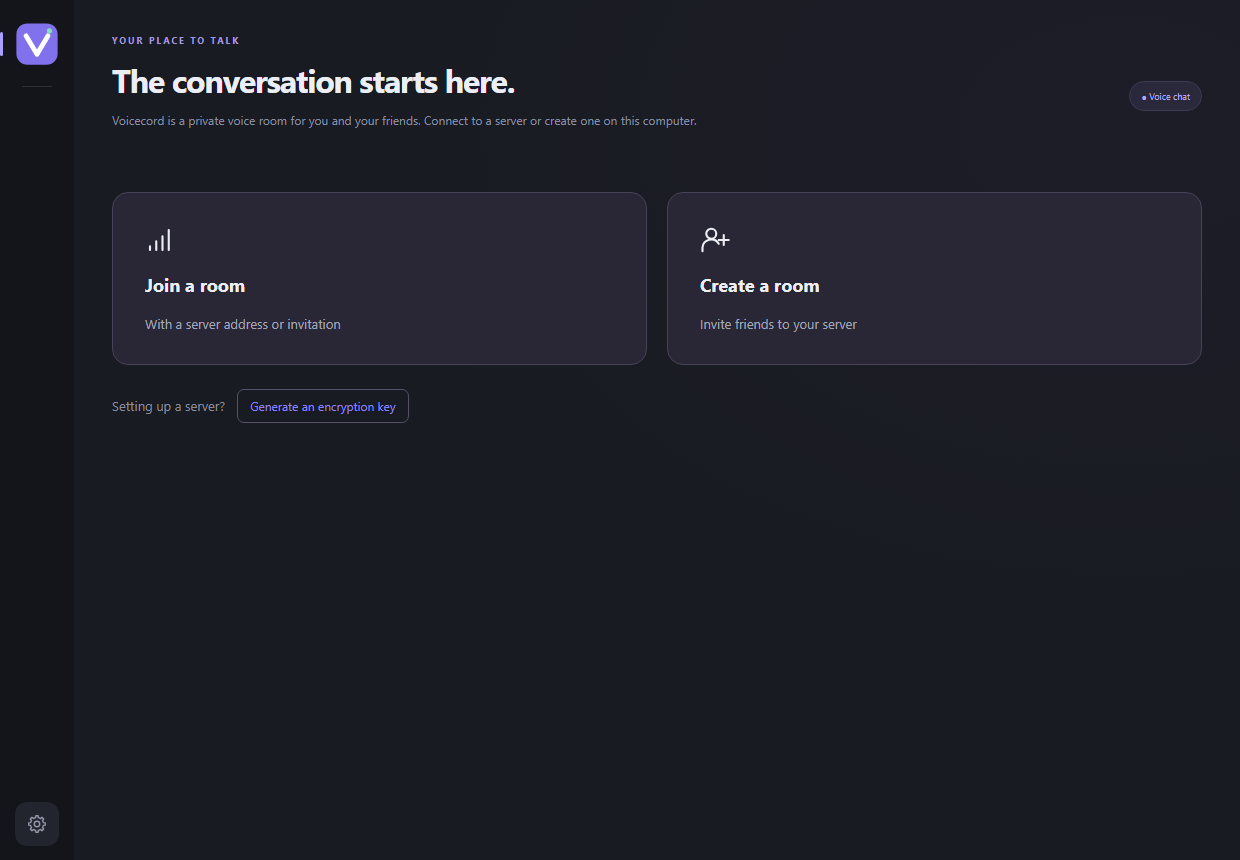
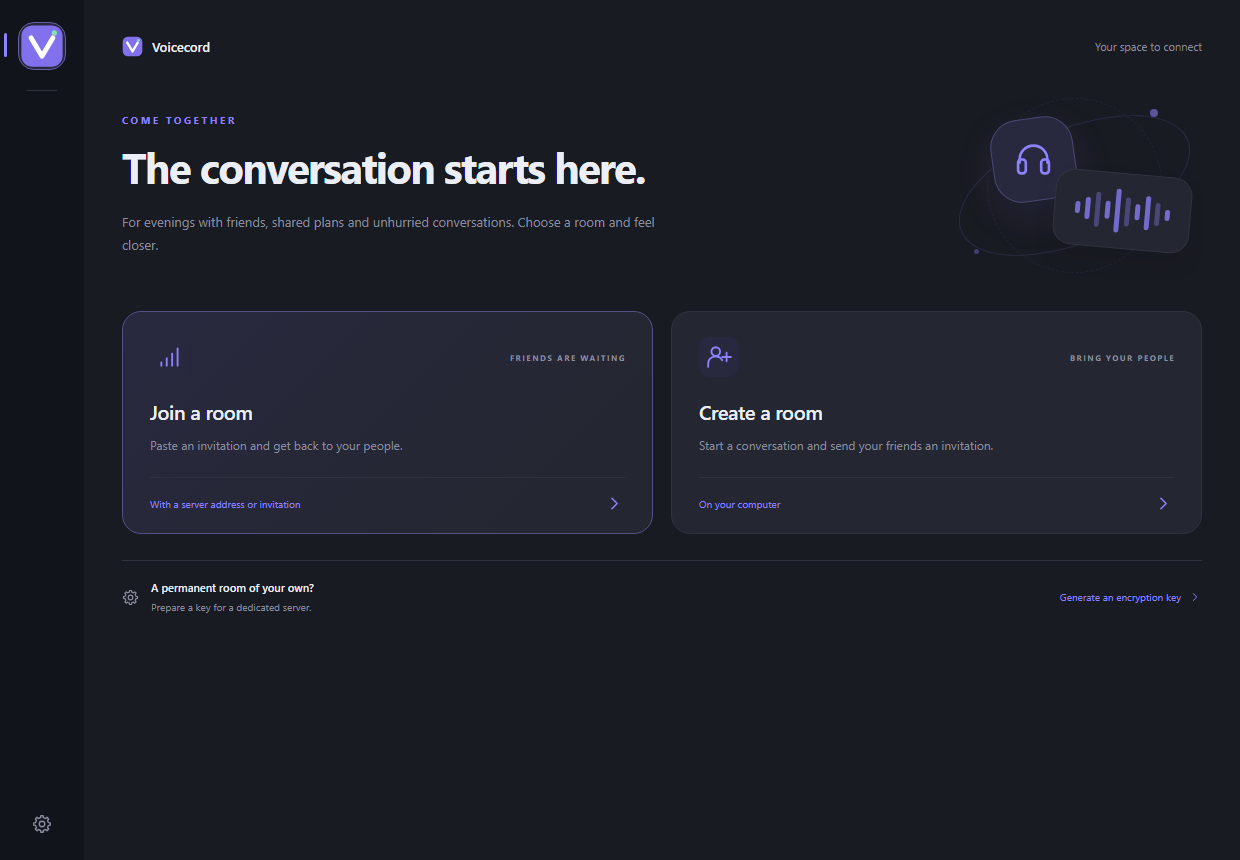
Release 0.5.0: refresh landing, screenshots and release documentation

diff --git a/website/ru/index.html b/website/ru/index.html
@@ -12,7 +12,7 @@
   <link rel="alternate" hreflang="x-default" href="https://ilyarusskikh.github.io/voicecord/">
   <meta property="og:type" content="website">
   <meta property="og:title" content="Voicecord — ваша голосовая комната">
-  <meta property="og:description" content="Голосовой чат для Windows с открытым кодом. Без аккаунтов. На вашем ПК или Linux VPS. Предварительная версия 0.4.1.">
+  <meta property="og:description" content="Голосовой чат для Windows с открытым кодом. Без аккаунтов. На вашем ПК или Linux VPS. Предварительная версия 0.5.0.">
   <meta property="og:url" content="https://ilyarusskikh.github.io/voicecord/ru/">
   <meta property="og:image" content="https://ilyarusskikh.github.io/voicecord/assets/room-chat.png">
   <meta property="og:image:alt" content="Комната Voicecord с тремя участниками, кнопками звонка и зашифрованным текстовым чатом">
@@ -32,21 +32,21 @@
     <div class="eyebrow">Открытый код · Свой сервер · Windows</div>
     <h1>Ваши друзья.<br>Ваш сервер.<br><span>Ваша комната.</span></h1>
     <p class="lead">Голос и текстовый чат для совместных игр и небольших сообществ. Создайте комнату на своём ПК или оставьте её работать на Linux VPS. Для входа — приглашение и никнейм. Без аккаунтов.</p>
-    <div class="actions"><a class="button" href="https://github.com/IlyaRusskikh/voicecord/releases/download/v0.4.1/Voicecord.Setup.0.4.1.exe">Скачать для Windows x64 ↓</a><a class="button secondary" href="https://github.com/IlyaRusskikh/voicecord/blob/main/docs/SERVER.md">Установить Linux-сервер ↗</a></div>
-    <p class="fine">0.4.1 — предварительная версия · Windows 10/11 x64 · Интерфейс Русский / English</p>
-    <p class="fine">Установщик без цифровой подписи · Проверяемое автообновление · <a href="https://github.com/IlyaRusskikh/voicecord/releases/tag/v0.4.1">Описание выпуска, SHA-256 и исходники</a></p>
+    <div class="actions"><a class="button" href="https://github.com/IlyaRusskikh/voicecord/releases/download/v0.5.0/Voicecord.Setup.0.5.0.exe">Скачать для Windows x64 ↓</a><a class="button secondary" href="https://github.com/IlyaRusskikh/voicecord/blob/main/docs/SERVER.md">Установить Linux-сервер ↗</a></div>
+    <p class="fine">0.5.0 — предварительная версия · Windows 10/11 x64 · Интерфейс Русский / English</p>
+    <p class="fine">Установщик без цифровой подписи · Проверяемое автообновление · <a href="https://github.com/IlyaRusskikh/voicecord/releases/tag/v0.5.0">Описание выпуска, SHA-256 и исходники</a></p>
   </section>
-  <figure class="hero-shot"><a href="../assets/room-chat.png"><img src="../assets/room-chat.png" width="1240" height="860" fetchpriority="high" alt="Комната Voicecord с тремя участниками, кнопками звонка и зашифрованным текстовым чатом"></a><figcaption>Voicecord 0.4.0 с тестовыми участниками и перепиской.</figcaption></figure>
+  <figure class="hero-shot"><a href="../assets/room-chat.png"><img src="../assets/room-chat.png" width="1240" height="860" fetchpriority="high" alt="Комната Voicecord с тремя участниками, кнопками звонка и зашифрованным текстовым чатом"></a><figcaption>Voicecord 0.5.0 с тестовыми участниками и перепиской.</figcaption></figure>
   <section class="section" aria-labelledby="features"><h2 id="features">Небольшая комната. Нужные настройки.</h2>
     <div class="features"><article><h3>Размещайте у себя</h3><p>Временная комната на Windows-ПК или постоянный Docker-сервер на Linux amd64/arm64. Гостям достаточно установить клиент.</p></article><article><h3>Убирайте лишний шум</h3><p>Локальное шумоподавление RNNoise, эхоподавление и автоусиление. Выбирайте устройства, чувствительность и громкость.</p></article><article><h3>Говорите как удобно</h3><p>Активация голосом или push-to-talk, глобальные сочетания, mute/deafen и громкость каждого участника. Приложение работает в трее.</p></article></div>
   </section>
-  <section class="section split"><div><div class="eyebrow">В комнате</div><h2>Говорите и пишите в одной комнате.</h2><p>Высоту голосовой панели и чата можно менять. В чате видно, кто печатает, а кнопка перехода открывает непрочитанное. Встроенная комната с E2EE хранит историю до остановки хоста. На VPS с E2EE и настроенной историей переписка хранится в зашифрованном виде до семи дней.</p><p>Выберите аватар и оцените круглый кадр перед сохранением.</p></div><figure><a href="../assets/avatar-crop.png"><img src="../assets/avatar-crop.png" width="1240" height="860" loading="lazy" alt="Круглый предпросмотр с масштабированием и сдвигом изображения."></a><figcaption>Круглый предпросмотр с масштабированием и сдвигом изображения.</figcaption></figure></section>
+  <section class="section split"><div><div class="eyebrow">В комнате</div><h2>Говорите и пишите в одной комнате.</h2><p>Меняйте высоту голосовой панели и чата. Отправляйте картинки до 2 МиБ, отвечайте на сообщения и копируйте текст. История подгружается при прокрутке; размер окна задаётся в настройках. На VPS объём хранения задаётся через VOICECORD_CHAT_MAX_MB: 128 МиБ по умолчанию, 0 — без лимита. Ограничения в семь дней нет.</p><p>Выберите аватар и оцените круглый кадр перед сохранением.</p></div><figure><a href="../assets/avatar-crop.png"><img src="../assets/avatar-crop.png" width="1240" height="860" loading="lazy" alt="Круглый предпросмотр с масштабированием и сдвигом изображения."></a><figcaption>Круглый предпросмотр с масштабированием и сдвигом изображения.</figcaption></figure></section>
   <section class="section" id="start"><h2>От скачивания до первого разговора.</h2>
     <ol class="steps"><li><strong>Установите и проверьте звук</strong><p>Установите клиент на каждый Windows-ПК и выберите Русский или English. В настройках задайте никнейм, выберите устройства и проверьте микрофон. Инструменты разработчика не нужны.</p></li><li><strong>Создайте комнату</strong><p>Нажмите «Создать комнату», введите название и пароль от 8 символов. Комната доступна, пока приложение хоста запущено.</p></li><li><strong>Пригласите друга</strong><p>Передайте полное приглашение лично. Друг вставляет его в «Присоединиться к комнате». В одной локальной сети используйте LAN-приглашение.</p></li></ol>
     <p>Для связи через интернет нужны доступные порты хоста. Автопроброс может не сработать при CGNAT. Альтернатива — Linux VPS с публичным IP. <a href="https://github.com/IlyaRusskikh/voicecord/blob/main/README.ru.md">Полная инструкция →</a></p>
   </section>
   <section class="section split"><div><div class="eyebrow">Перед разговором</div><h2>Сначала услышьте себя.<br>Потом — друзей.</h2><p>Выберите микрофон и динамики, попробуйте шумоподавление и прослушайте микрофон перед подключением.</p><p>Порты хоста по умолчанию: TCP <strong>18443</strong>, TCP <strong>18444</strong>, UDP <strong>18445</strong>. В руководстве сервера описаны проверки firewall и доступности.</p></div><figure><a href="../assets/audio-settings.png"><img src="../assets/audio-settings.png" width="1240" height="860" loading="lazy" alt="Настройки Voicecord: микрофон, динамик, проверка микрофона и шумоподавление"></a><figcaption>Настоящие настройки звука; при съёмке использован синтетический микрофон.</figcaption></figure></section>
-  <section class="section split"><div><div class="eyebrow">Язык и обновления</div><h2>Ваш язык.<br>Проверяемые обновления.</h2><p>Выберите Русский или English в установщике или настройках. Подсказки соединения и сообщения используют выбранный язык.</p><p>При запуске приложение проверяет новые релизы GitHub, включая предварительные. Обновление можно отложить и открыть снова по иконке. Файл проверяется перед установкой, а отдельное окно показывает её ход.</p><p>Уже используете 0.1.0? Один раз установите 0.2.0 вручную, чтобы получать следующие обновления из приложения.</p></div><figure><a href="../assets/language-settings.png"><img src="../assets/language-settings.png" width="1240" height="860" loading="lazy" alt="Настройки Voicecord: выбор языка приложения и никнейм"></a><figcaption>Язык и профиль в Voicecord 0.4.0.</figcaption></figure></section>
+  <section class="section split"><div><div class="eyebrow">Оформление и обновления</div><h2>Ваш язык.<br>Проверяемые обновления.</h2><p>Выберите Русский или English в разделе «Приложение». В настройках с боковой навигацией доступны светлая тема, цветовая палитра и скругления. Подсказки соединения и сообщения используют выбранный язык.</p><p>Автопроверку обновлений можно отключить или запустить вручную; текущая версия показана рядом. Обновление можно отложить и открыть снова по иконке. Файл проверяется перед установкой, а отдельное окно показывает её ход.</p><p>Уже используете 0.1.0? Один раз установите 0.2.0 вручную, чтобы получать следующие обновления из приложения.</p></div><figure><a href="../assets/language-settings.png"><img src="../assets/language-settings.png" width="1240" height="860" loading="lazy" alt="Настройки Voicecord: выбор языка приложения и никнейм"></a><figcaption>Настройки приложения в Voicecord 0.5.0.</figcaption></figure></section>
   <section class="section"><h2>Что учитывать в предварительной версии.</h2><div class="limits"><p><strong>Это ранний выпуск.</strong> Реальные микрофоны, чистая установка Windows, игры/PTT, разные внешние сети и полная нагрузка ещё требуют аппаратной приёмки.</p><p>Клиент работает только на Windows. Linux — серверная платформа. Видео, демонстрация экрана, веб- и мобильные клиенты пока недоступны.</p><p>E2EE включается по желанию и остаётся экспериментальным. Одно шифрование транспорта не исключает доступ медиасервера к звуку. Приглашение может содержать пароль и ключ E2EE — передавайте его лично. <a href="https://github.com/IlyaRusskikh/voicecord/blob/main/docs/E2EE.md">Модель защиты</a>.</p></div></section>
   <section class="section" id="faq"><h2>Ответы перед первым запуском.</h2>
     <details><summary>Это альтернатива Discord или TeamSpeak?</summary><p>Для небольших голосовых комнат на своём сервере — это целевой сценарий. Voicecord сосредоточен на разговорах без регистрации и не заменяет все возможности этих платформ для сообществ.</p></details>

diff --git a/website/index.html b/website/index.html
@@ -12,7 +12,7 @@
   <link rel="alternate" hreflang="x-default" href="https://ilyarusskikh.github.io/voicecord/">
   <meta property="og:type" content="website">
   <meta property="og:title" content="Voicecord — a voice room of your own">
-  <meta property="og:description" content="Open-source voice chat for Windows. No accounts. Host on your PC or a Linux VPS. Public preview 0.4.1.">
+  <meta property="og:description" content="Open-source voice chat for Windows. No accounts. Host on your PC or a Linux VPS. Public preview 0.5.0.">
   <meta property="og:url" content="https://ilyarusskikh.github.io/voicecord/">
   <meta property="og:image" content="https://ilyarusskikh.github.io/voicecord/assets/room-chat-en.png">
   <meta property="og:image:alt" content="Voicecord room with three participants, call controls and encrypted text chat">
@@ -32,21 +32,21 @@
     <div class="eyebrow">Open source · Self-hosted · Windows</div>
     <h1>Your friends.<br>Your server.<br><span>Your voice room.</span></h1>
     <p class="lead">Voice and text chat for a game night or a small community. Create a room on your PC or keep it running on a Linux VPS. Join with an invitation and a nickname. No accounts.</p>
-    <div class="actions"><a class="button" href="https://github.com/IlyaRusskikh/voicecord/releases/download/v0.4.1/Voicecord.Setup.0.4.1.exe">Download for Windows x64 ↓</a><a class="button secondary" href="https://github.com/IlyaRusskikh/voicecord/blob/main/docs/SERVER.md">Host a Linux server ↗</a></div>
-    <p class="fine">0.4.1 public preview · Windows 10/11 x64 · English / Русский interface</p>
-    <p class="fine">Unsigned installer · Verified automatic updates · <a href="https://github.com/IlyaRusskikh/voicecord/releases/tag/v0.4.1">Release notes, checksums and source</a></p>
+    <div class="actions"><a class="button" href="https://github.com/IlyaRusskikh/voicecord/releases/download/v0.5.0/Voicecord.Setup.0.5.0.exe">Download for Windows x64 ↓</a><a class="button secondary" href="https://github.com/IlyaRusskikh/voicecord/blob/main/docs/SERVER.md">Host a Linux server ↗</a></div>
+    <p class="fine">0.5.0 public preview · Windows 10/11 x64 · English / Русский interface</p>
+    <p class="fine">Unsigned installer · Verified automatic updates · <a href="https://github.com/IlyaRusskikh/voicecord/releases/tag/v0.5.0">Release notes, checksums and source</a></p>
   </section>
-  <figure class="hero-shot"><a href="assets/room-chat-en.png"><img src="assets/room-chat-en.png" width="1240" height="860" fetchpriority="high" alt="Voicecord room with three participants, call controls and encrypted text chat"></a><figcaption>Voicecord 0.4.0 with demo participants and messages.</figcaption></figure>
+  <figure class="hero-shot"><a href="assets/room-chat-en.png"><img src="assets/room-chat-en.png" width="1240" height="860" fetchpriority="high" alt="Voicecord room with three participants, call controls and encrypted text chat"></a><figcaption>Voicecord 0.5.0 with demo participants and messages.</figcaption></figure>
   <section class="section" aria-labelledby="features"><h2 id="features">A small room. The controls you need.</h2>
     <div class="features"><article><h3>Host it yourself</h3><p>Temporary rooms on a Windows PC, or a persistent Docker server on Linux amd64/arm64. Your guests just install the client.</p></article><article><h3>Keep the noise down</h3><p>Local RNNoise noise suppression, echo cancellation and automatic gain control. Adjust devices, sensitivity and volume.</p></article><article><h3>Speak your way</h3><p>Voice activation or push-to-talk, global shortcuts, mute/deafen and per-person volume. Keep the app in the tray.</p></article></div>
   </section>
-  <section class="section split"><div><div class="eyebrow">In the room</div><h2>Keep talking. Share a message.</h2><p>The room has resizable voice and text panels, with typing indicators and a jump to unread messages. Built-in rooms with E2EE keep history until the host stops. VPS rooms configured for E2EE and chat history can retain encrypted messages for up to seven days.</p><p>Choose a profile picture and preview the circular crop before saving.</p></div><figure><a href="assets/avatar-crop-en.png"><img src="assets/avatar-crop-en.png" width="1240" height="860" loading="lazy" alt="Circular avatar preview with zoom and repositioning."></a><figcaption>Circular avatar preview with zoom and repositioning.</figcaption></figure></section>
+  <section class="section split"><div><div class="eyebrow">In the room</div><h2>Keep talking. Share a message.</h2><p>Resize the voice and chat panels. Share images up to 2 MiB, reply to messages and copy text. History loads as you scroll, with a configurable client window. VPS storage uses VOICECORD_CHAT_MAX_MB: 128 MiB by default, 0 for unlimited. There is no seven-day expiry.</p><p>Choose a profile picture and preview the circular crop before saving.</p></div><figure><a href="assets/avatar-crop-en.png"><img src="assets/avatar-crop-en.png" width="1240" height="860" loading="lazy" alt="Circular avatar preview with zoom and repositioning."></a><figcaption>Circular avatar preview with zoom and repositioning.</figcaption></figure></section>
   <section class="section" id="start"><h2>From download to first conversation.</h2>
     <ol class="steps"><li><strong>Install &amp; check your mic</strong><p>Install the Windows client on each PC and choose English or Russian. In Settings, choose a nickname, select audio devices and test your microphone. No developer tools are needed.</p></li><li><strong>Create a room</strong><p>Choose Create room (Создать комнату), enter a name and a password of at least 8 characters. The room stays up while the host app runs.</p></li><li><strong>Invite a friend</strong><p>Share the full invitation privately. Your friend pastes it into Join room (Присоединиться к комнате). On the same network, use the LAN invitation.</p></li></ol>
     <p>Across the internet, the host needs reachable ports. Automatic port mapping may not work behind CGNAT. A Linux VPS with a public IP is an alternative. <a href="https://github.com/IlyaRusskikh/voicecord/blob/main/README.md">Read the full setup guide →</a></p>
   </section>
   <section class="section split"><div><div class="eyebrow">Before the call</div><h2>Hear yourself.<br>Then join your friends.</h2><p>Choose your microphone and speakers, try noise suppression and listen to a microphone test before connecting.</p><p>Default hosting ports: TCP <strong>18443</strong>, TCP <strong>18444</strong>, UDP <strong>18445</strong>. The server setup guide covers firewall and connectivity checks.</p></div><figure><a href="assets/audio-settings-en.png"><img src="assets/audio-settings-en.png" width="1240" height="860" loading="lazy" alt="Voicecord settings showing microphone, speaker, monitoring and noise suppression controls"></a><figcaption>Real audio settings; capture uses a synthetic microphone.</figcaption></figure></section>
-  <section class="section split"><div><div class="eyebrow">Language and updates</div><h2>Your language.<br>Verified updates.</h2><p>Choose English or Russian in the installer or Settings. Connection tooltips and status messages follow your choice.</p><p>The app checks GitHub releases at startup, including previews. Update now or defer it; an icon lets you reopen the offer. Downloads are verified before installation, and a separate window shows installation progress.</p><p>Already on 0.1.0? Install 0.2.0 once manually to enable future update offers.</p></div><figure><a href="assets/language-settings-en.png"><img src="assets/language-settings-en.png" width="1240" height="860" loading="lazy" alt="Voicecord English settings with a persistent application language selector"></a><figcaption>Language and profile settings in Voicecord 0.4.0.</figcaption></figure></section>
+  <section class="section split"><div><div class="eyebrow">Language and updates</div><h2>Your language.<br>Verified updates.</h2><p>Choose English or Russian under Application. Settings now have sidebar navigation, a light preset, editable colors and corner sizes. Connection tooltips and status messages follow your choice.</p><p>Turn automatic update checks on or off, check manually and see the current version in Settings. Update now or defer it; an icon lets you reopen the offer. Downloads are verified before installation, and a separate window shows installation progress.</p><p>Already on 0.1.0? Install 0.2.0 once manually to enable future update offers.</p></div><figure><a href="assets/language-settings-en.png"><img src="assets/language-settings-en.png" width="1240" height="860" loading="lazy" alt="Voicecord English settings with a persistent application language selector"></a><figcaption>Application settings in Voicecord 0.5.0.</figcaption></figure></section>
   <section class="section"><h2>Try the preview with clear expectations.</h2><div class="limits"><p><strong>This is an early release.</strong> Real microphones, clean Windows installations, games/PTT, separate internet networks and full load still need hardware acceptance testing.</p><p>Windows desktop client only. Linux is a server platform. Video, screen sharing and web or mobile clients are unavailable.</p><p>E2EE is optional and experimental. Transport encryption alone does not prevent the media server from accessing audio. Invitations can contain the password and E2EE key: keep them private. <a href="https://github.com/IlyaRusskikh/voicecord/blob/main/docs/E2EE.md">Read the security model</a>.</p></div></section>
   <section class="section" id="faq"><h2>A few things to know.</h2>
     <details><summary>Is this an alternative to Discord or TeamSpeak?</summary><p>For small, self-hosted voice rooms, that is the use case. Voicecord focuses on account-free conversations. It does not replace their broader community features.</p></details>

diff --git a/README.md b/README.md
@@ -4,7 +4,7 @@
 
 Voicecord is an **alternative to Discord and TeamSpeak for voice chat** on Windows. Get friends together before a match, talk to your team while you play, or give your community a room it can come back to. Join with an invitation and a nickname. No account required.
 
-**[Download Voicecord 0.4.1 for Windows 10/11 (x64)](https://github.com/IlyaRusskikh/voicecord/releases/download/v0.4.1/Voicecord.Setup.0.4.1.exe)** · [Get started](#get-started) · [Self-hosting guide (Russian)](docs/SERVER.md)
+**[Download Voicecord 0.5.0 for Windows 10/11 (x64)](https://github.com/IlyaRusskikh/voicecord/releases/download/v0.5.0/Voicecord.Setup.0.5.0.exe)** · [Get started](#get-started) · [Self-hosting guide (Russian)](docs/SERVER.md)
 
 ![Voicecord room with three participants, call controls and encrypted text chat](website/assets/room-chat-en.png)
 
@@ -24,7 +24,7 @@ Voicecord takes inspiration from **Discord** for easy-to-join voice rooms and in
 - **Set a profile picture.** Under **Settings → About me**, choose a PNG, JPEG, or WebP. Zoom and position the image in the circular preview. Participants see your current nickname and avatar in the room and in retained chat history.
 - **Make speech easier to hear.** RNNoise reduces background noise on your PC, echo cancellation reduces echo, and automatic gain control evens out the level of your voice.
 - **Return to your favorite rooms.** Bookmark a server so you can find it again quickly.
-- **Send messages during a call.** The room opens with chat below the participant cards. Press Enter to send or Shift+Enter for a new line. You can send up to three messages per second and see when someone else is typing. Drag the divider to resize either section. Built-in E2EE rooms keep history in memory until the server stops. Published 0.4.1 servers keep encrypted history for up to seven days; the local next version uses a configurable storage budget (see Project status).
+- **Send messages during a call.** The room opens with chat below the participant cards. Press Enter to send or Shift+Enter for a new line. You can send up to three messages per second and see when someone else is typing. Drag the divider to resize either section. Built-in E2EE rooms keep history in memory until the server stops. VPS history uses a configurable storage budget with no age limit (see Project status).
 
 <details>
 <summary>See audio settings and room creation</summary>
@@ -37,7 +37,7 @@ Voicecord takes inspiration from **Discord** for easy-to-join voice rooms and in
 
 ## Get started
 
-1. **Install Voicecord.** [Download the installer](https://github.com/IlyaRusskikh/voicecord/releases/download/v0.4.1/Voicecord.Setup.0.4.1.exe) on each Windows PC. Choose English or Russian.
+1. **Install Voicecord.** [Download the installer](https://github.com/IlyaRusskikh/voicecord/releases/download/v0.5.0/Voicecord.Setup.0.5.0.exe) on each Windows PC. Choose English or Russian.
 2. **Pick a nickname.** Open **Settings → About me** and enter a nickname. You can test your microphone under **Voice**.
 3. **Get your friends together.** Select **Create a room**, give the room a name, and choose a password of at least 8 characters. Share the full invitation privately. Your friend opens **Join a room** and pastes the link.
 
@@ -100,13 +100,13 @@ Voicecord is licensed under [GNU AGPL-3.0-only](LICENSE). Third-party components
 
 ## Project status
 
-Local work after 0.4.1 is under review: a redesigned home screen, settings navigation,
+Version 0.5.0 includes: a redesigned home screen, settings navigation,
 a detailed color palette with a light preset, configurable chat windows (25–500 messages; default 100), replies,
 and static PNG/JPEG/WebP attachments up to 2 MiB. Updated servers provide paged
 history and password-protected room previews with participants and unread counts.
 Images load on demand and are released outside the viewport. E2EE rooms encrypt
 messages and images; without E2EE the server can read retained content. These
-changes are **not published**. Run `review.cmd` for an isolated local profile.
+changes are included in **0.5.0**. Run `review.cmd` for an isolated local profile.
 VPS Swarm deployment and opt-in server updates: [SWARM.md](docs/SWARM.md).
 Client startup update checks can be disabled under Settings → Updates. App language
 is under Settings → Application. The voice/chat room retains its original layout.
@@ -124,7 +124,7 @@ when messages enter or leave the window.
 Message menus include **Copy text**. The room rail hides its scrollbar and shows
 `+N` for rooms below the visible area. VPS history uses `VOICECORD_CHAT_MAX_MB`
 (128 MiB by default, `0` unlimited), including messages, images, profiles and SQLite
-indexes. Oldest messages are evicted and disk pages reclaimed; this local version
+indexes. Oldest messages are evicted and disk pages reclaimed; 0.5.0
 has no seven-day or 500-message VPS retention cap. Embedded rooms keep 500 messages.
 
-**0.4.1 is a public pre-release.** It fixes avatar synchronization after rejoining, speeds up chat updates, groups consecutive messages from the same author with a hover highlight, and keeps connection errors out of Settings. For immediate chat updates, all participants should update their clients. Encrypted chat history on a VPS requires server 0.4.0 or later with E2EE and a configured key fingerprint. See the [v0.4.1 release](https://github.com/IlyaRusskikh/voicecord/releases/tag/v0.4.1) for the corresponding source and SHA-256. [Changelog](CHANGELOG.md).
+**0.5.0 is a public pre-release.** It adds image attachments, message replies, customizable themes and settings navigation, room previews, stable history paging and configurable VPS storage. [Release notes and source](https://github.com/IlyaRusskikh/voicecord/releases/tag/v0.5.0). [Changelog](CHANGELOG.md).

diff --git a/docs/SERVER.md b/docs/SERVER.md
@@ -1,10 +1,10 @@
 # Установка сервера Voicecord на Linux — пошагово
 
 Новый вариант с Docker Swarm, healthcheck/rollback и автообновлением по флагу
-подготовлен локально: [SWARM.md](SWARM.md). Он не применялся к VPS. Ниже сохранена
-инструкция для уже опубликованной установки Compose.
+включён в 0.5.0: [SWARM.md](SWARM.md). Он не применялся к VPS. Ниже сохранена
+инструкция для установки Compose.
 
-В текущей локальной версии добавлен параметр `.env` `VOICECORD_CHAT_MAX_MB=128`:
+В версии 0.5.0 добавлен параметр `.env` `VOICECORD_CHAT_MAX_MB=128`:
 бюджет SQLite-базы чата в МиБ, включая текст, картинки, профили и индексы.
 `0` отключает лимит. История не удаляется по возрасту; при заполнении удаляются
 самые старые сообщения. После изменения параметра пересоздайте контейнер или
@@ -17,7 +17,7 @@
 извне постоянный IP. Исходники, Node.js, Go, Windows-клиент и компилятор на VPS
 не нужны. Домен и публичный TLS-сертификат также не требуются.
 
-Образ: `ghcr.io/ilyarusskikh/voicecord-server:0.3.0`.
+Образ: `ghcr.io/ilyarusskikh/voicecord-server:0.5.0`.
 Для установки используется готовый публичный образ: публиковать его самостоятельно
 или настраивать GitHub Actions не требуется.
 
@@ -135,7 +135,7 @@ apt-get install -y ca-certificates curl nano
 ```sh
 install -d -m 755 /opt/voicecord
 cd /opt/voicecord
-VOICECORD_RELEASE=0.3.0
+VOICECORD_RELEASE=0.5.0
 curl -fL "https://raw.githubusercontent.com/IlyaRusskikh/voicecord/v${VOICECORD_RELEASE}/compose.server.ghcr.yaml" -o compose.server.ghcr.yaml
 curl -fL "https://raw.githubusercontent.com/IlyaRusskikh/voicecord/v${VOICECORD_RELEASE}/.env.server.example" -o .env.server.example
 if [ ! -e .env ]; then cp .env.server.example .env; fi
@@ -147,7 +147,7 @@ nano .env
 Замените пример IP на публичный IP VPS и выберите режим E2EE по пояснениям ниже:
 
 ```dotenv
-VOICECORD_IMAGE=ghcr.io/ilyarusskikh/voicecord-server:0.3.0
+VOICECORD_IMAGE=ghcr.io/ilyarusskikh/voicecord-server:0.5.0
 VOICECORD_PUBLIC_IP=203.0.113.10
 VOICECORD_PORT=18443
 VOICECORD_E2EE=false

diff --git a/docs/SWARM.md b/docs/SWARM.md
@@ -1,8 +1,7 @@
 # Swarm и обновления VPS
 
-Это новый локально подготовленный вариант развёртывания. Он не применялся к VPS
-и не опубликован как новая версия сервера. Для проверки новых возможностей
-соберите образ из текущих исходников; опубликованный 0.4.1 остаётся прежним.
+Этот вариант развёртывания включён в 0.5.0. Реальный rollout на VPS ещё не проверен.
+Перед миграцией сохраните резервную копию volume.
 
 `VOICECORD_CHAT_MAX_MB` в `.env` задаёт бюджет SQLite-базы чата в МиБ: `128` по
 умолчанию, `0` — без лимита. Учитываются сообщения, изображения, профили и индексы;
@@ -44,7 +43,7 @@
 4. Скопируйте `.env.server.swarm.example` в `.env`. Укажите реальный IP, прежние
    настройки E2EE и **точное имя существующего** volume в `VOICECORD_DATA_VOLUME`.
    Для нового сервера сначала создайте отдельный volume через `docker volume create`.
-5. Для проверки этой неопубликованной версии соберите локальный образ:
+5. Для собственной сборки этой версии соберите локальный образ:
 
    ```sh
    docker build -f server/standalone.Dockerfile -t voicecord-server:review .

diff --git a/docs/GUIDE.ru.md b/docs/GUIDE.ru.md
@@ -51,7 +51,7 @@ Enter отправляет сообщение, Shift+Enter добавляет н
 В комнате без E2EE переписка доступна до выхода. Встроенная комната с E2EE
 держит историю в памяти до остановки сервера. Сервер на VPS с E2EE и настроенным
 отпечатком ключа в опубликованной версии хранит до 500 сообщений семь дней.
-Локальная следующая версия использует `VOICECORD_CHAT_MAX_MB` (128 МиБ по умолчанию,
+Версия 0.5.0 использует `VOICECORD_CHAT_MAX_MB` (128 МиБ по умолчанию,
 `0` — без лимита) вместо срока и количества. При заполнении удаляется старейшая
 история с картинками и освобождается место в SQLite.
 

diff --git a/website/README.md b/website/README.md
@@ -46,7 +46,7 @@ Do not advertise unreleased behavior as available in the installer.
 ## Screenshots
 
 `assets/voicecord.svg` is copied from the project's existing `assets/voicecord.svg`.
-PNG screenshots show the Voicecord 0.4.0 desktop interface in both languages.
+PNG screenshots show the Voicecord 0.5.0 desktop interface in both languages.
 The capture uses an isolated profile, synthetic microphones and a temporary E2EE
 room populated with demo participants and messages. The invitation dialog is
 closed before capture. Audio settings show fake Chromium audio devices.

diff --git a/CHANGELOG.md b/CHANGELOG.md
@@ -1,6 +1,6 @@
 # Changelog / История изменений
 
-## Unreleased / Не выпущено
+## 0.5.0 — 2026-11-07 — Chat, customization and server storage / Чат, оформление и хранение
 
 - Remove the chat information tooltip and header so the feed fade starts directly below the divider. / Удалены подсказка и шапка чата: fade ленты начинается сразу под разделителем.
 

diff --git a/docs/API.md b/docs/API.md
@@ -1,6 +1,6 @@
 # API v0.1
 
-## Рабочие изменения после 0.4.1 (не опубликованы)
+## Изменения 0.5.0
 
 Новый сервер возвращает `chatProtocol: 2`, `chatFeed`, `chatToken`, `chatEphemeral`
 в комнатах с E2EE и без него. Без E2EE сообщения и вложения доступны серверу;
